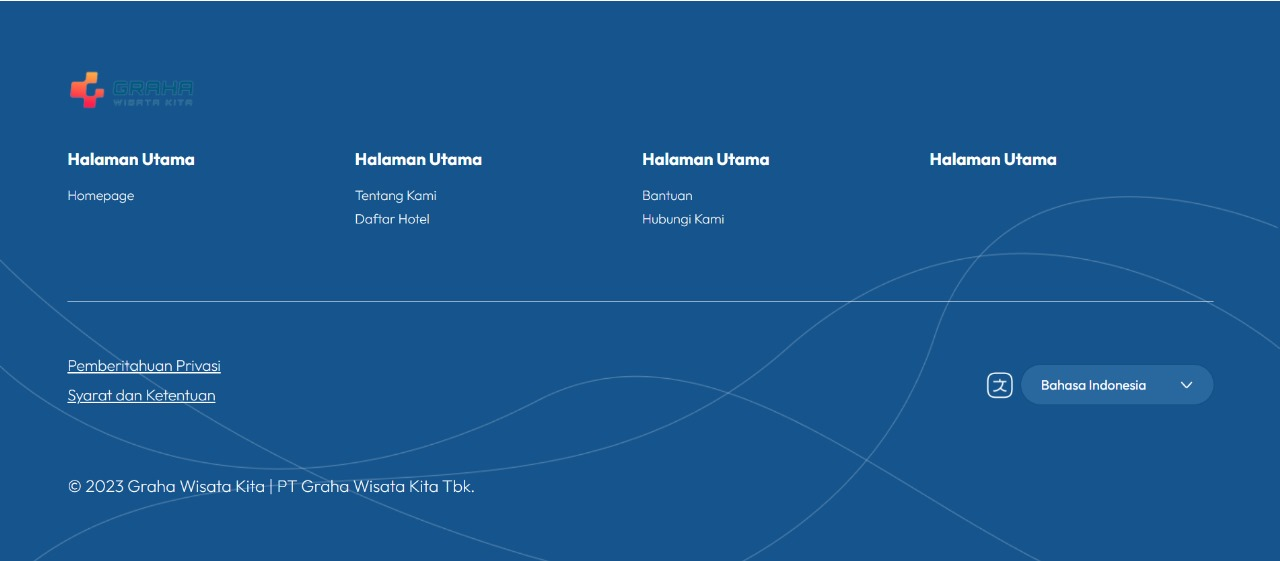
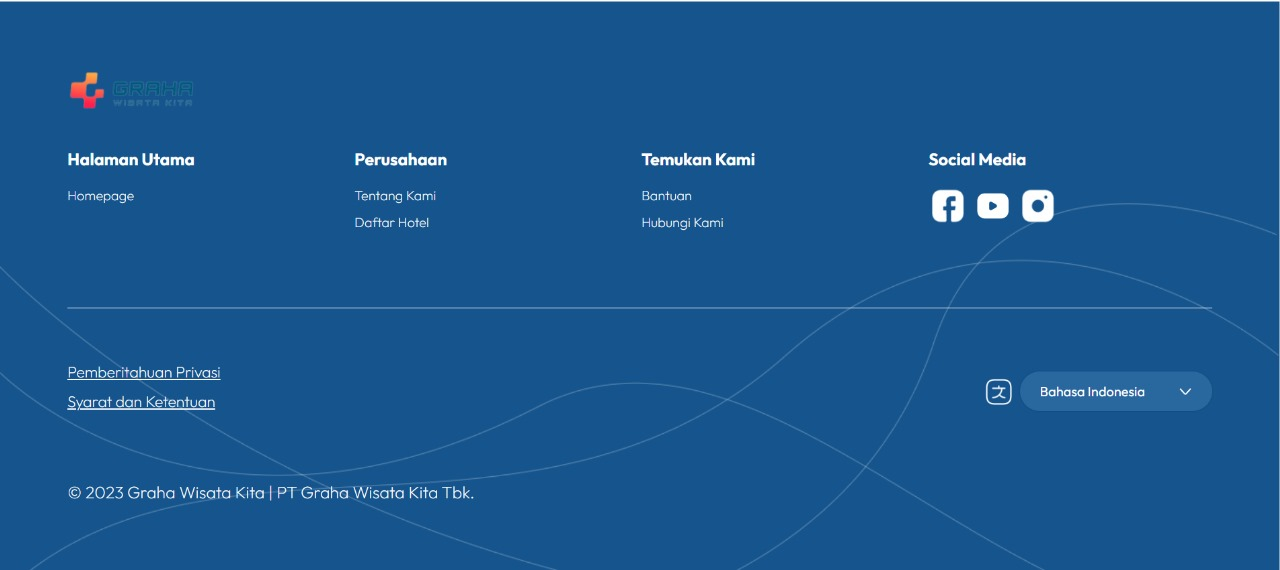
Revisi Footer

diff --git a/resources/scss/app.scss b/resources/scss/app.scss
@@ -765,8 +765,20 @@ footer {
                 text-decoration: none;
                 color: white;
                 font-size: 20px;
-                margin-bottom: 10px;
+                margin-bottom: 15px;
                 font-weight: 200;
+                cursor: pointer;
+            }
+
+            .footer-img-social {
+                display: flex;
+                align-items: center;
+                gap: 10px;
+
+                img {
+                    width: 57px;
+                    height: 57px;
+                }
             }
         }
     }

diff --git a/resources/views/components/footer.blade.php b/resources/views/components/footer.blade.php
@@ -10,21 +10,21 @@
             <a href="">Homepage</a>
         </div>
         <div class="footer-text-title">
-            <h1>Halaman Utama</h1>
+            <h1>Perusahaan</h1>
             <a href="">Tentang Kami</a>
             <a href="">Daftar Hotel</a>
         </div>
         <div class="footer-text-title">
-            <h1>Halaman Utama</h1>
+            <h1>Temukan Kami</h1>
             <a href="">Bantuan</a>
             <a href="">Hubungi Kami</a>
         </div>
         <div class="footer-text-title">
-            <h1>Halaman Utama</h1>
-            <div>
-                <img src='' alt=''>
-                <img src='' alt=''>
-                <img src='' alt=''>
+            <h1>Social Media</h1>
+            <div class="footer-img-social">
+                <img src='/assets/facebook.png' alt=''>
+                <img src='/assets/youtube.svg' alt=''>
+                <img src='/assets/instagram.png' alt=''>
             </div>
         </div>
     </div>
